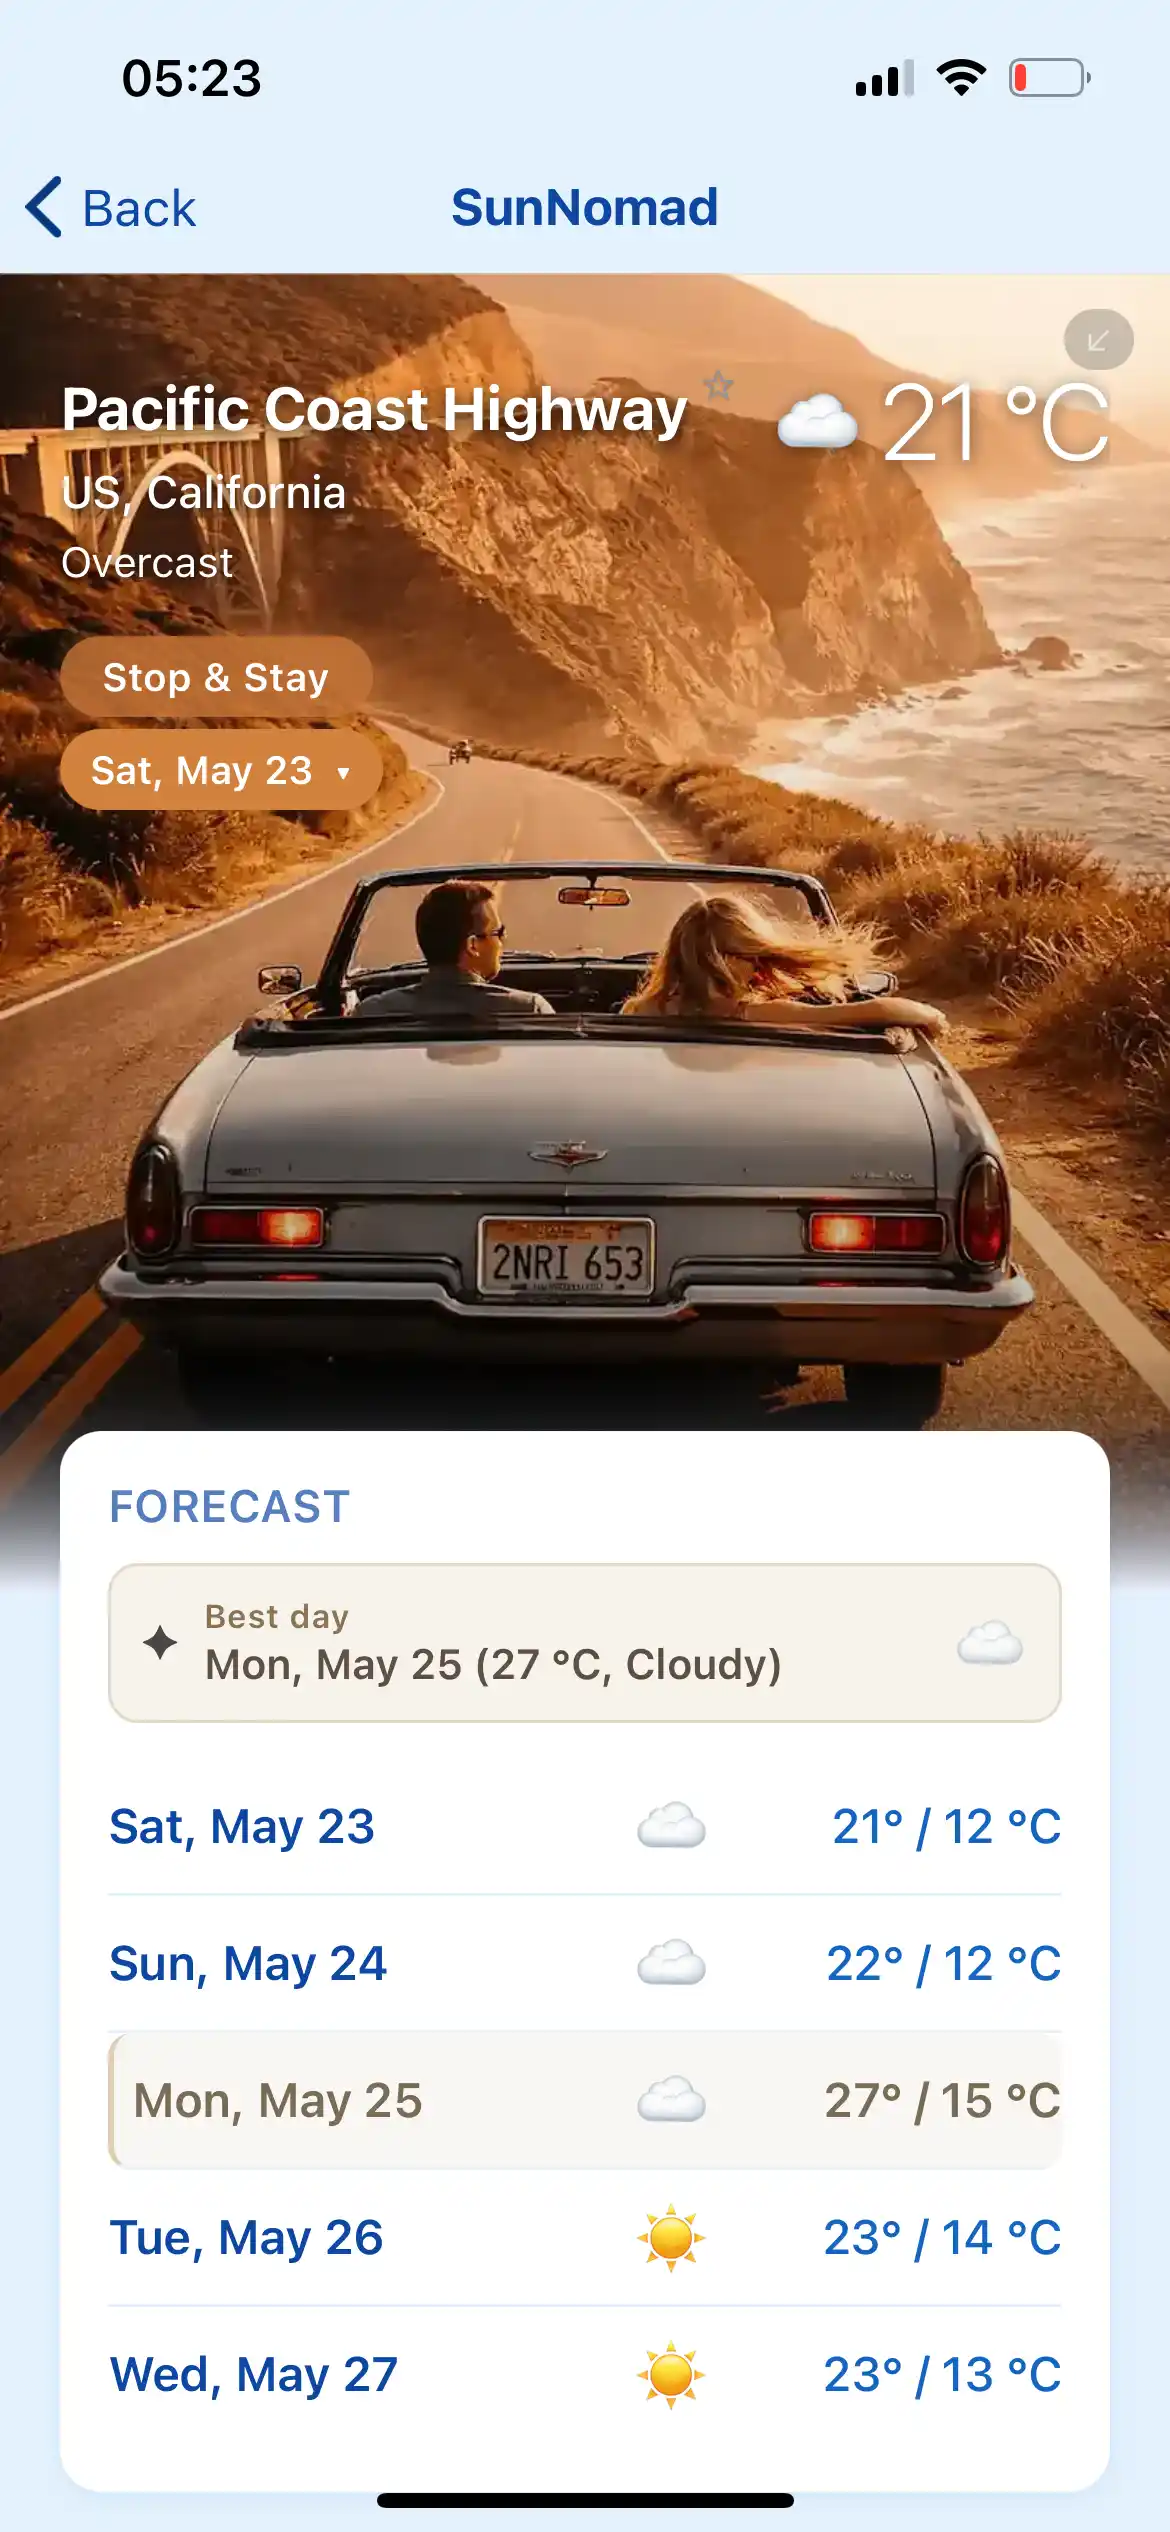
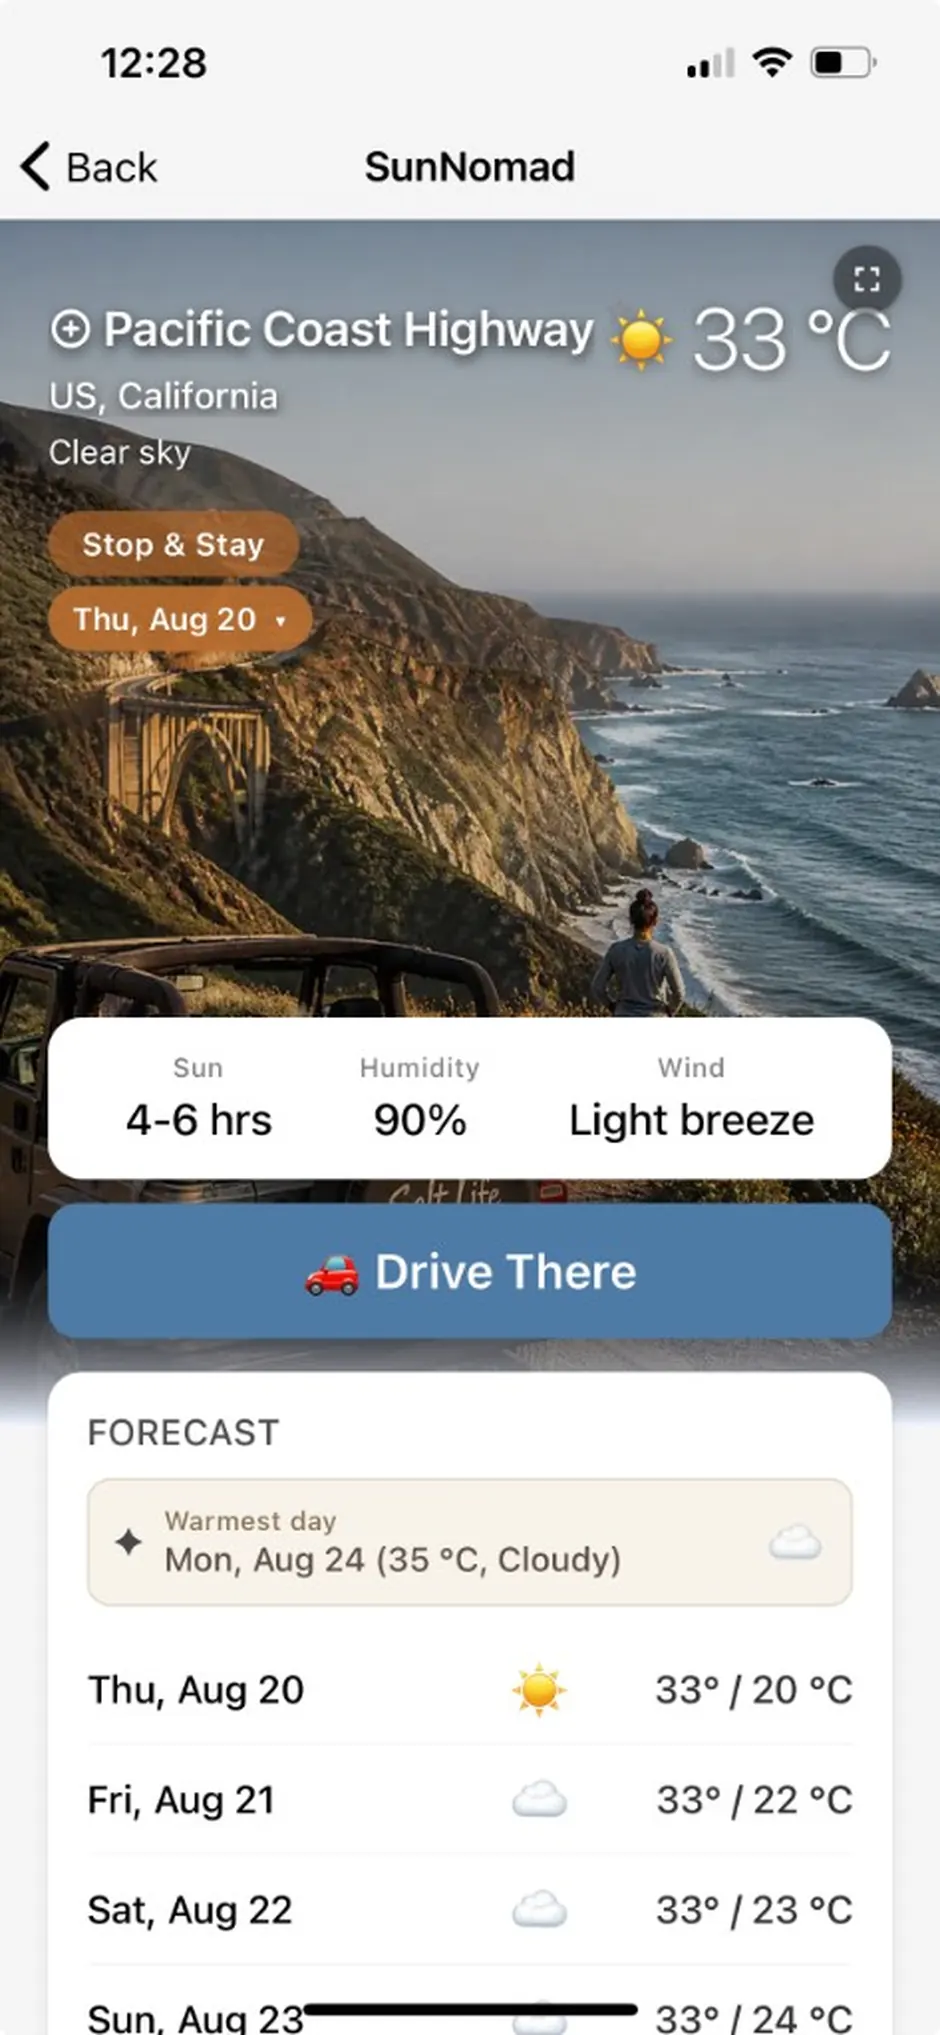
Replace Pacific Coast screenshot on homepage

diff --git a/index.html b/index.html
@@ -146,7 +146,7 @@
         <div class="ss-grid ss-editorial">
           <div class="ss-phone"><div class="ss-screen"><img src="assets/malaga_grafiti.webp" alt="Málaga" loading="lazy"></div></div>
           <div class="ss-phone"><div class="ss-screen"><img src="assets/bardenas.webp" alt="Bardenas Reales" loading="lazy"></div></div>
-          <div class="ss-phone"><div class="ss-screen"><img src="assets/pacific_coast_highway.webp" alt="Pacific Coast Highway" loading="lazy"></div></div>
+          <div class="ss-phone"><div class="ss-screen"><img src="assets/pacific_coast_highway.webp" alt="SunNomad — Pacific Coast Highway" loading="lazy"></div></div>
         </div>
         <p class="ss-label">From Corsica to Temple Bar</p>
         <div class="ss-grid">
